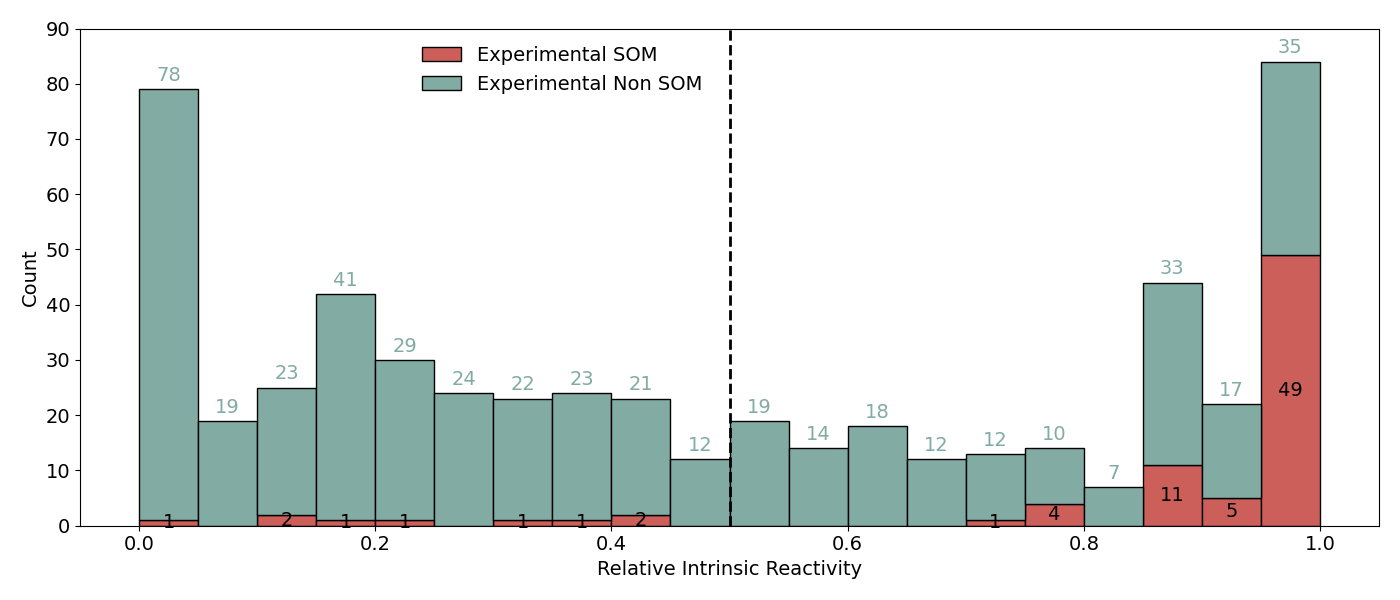
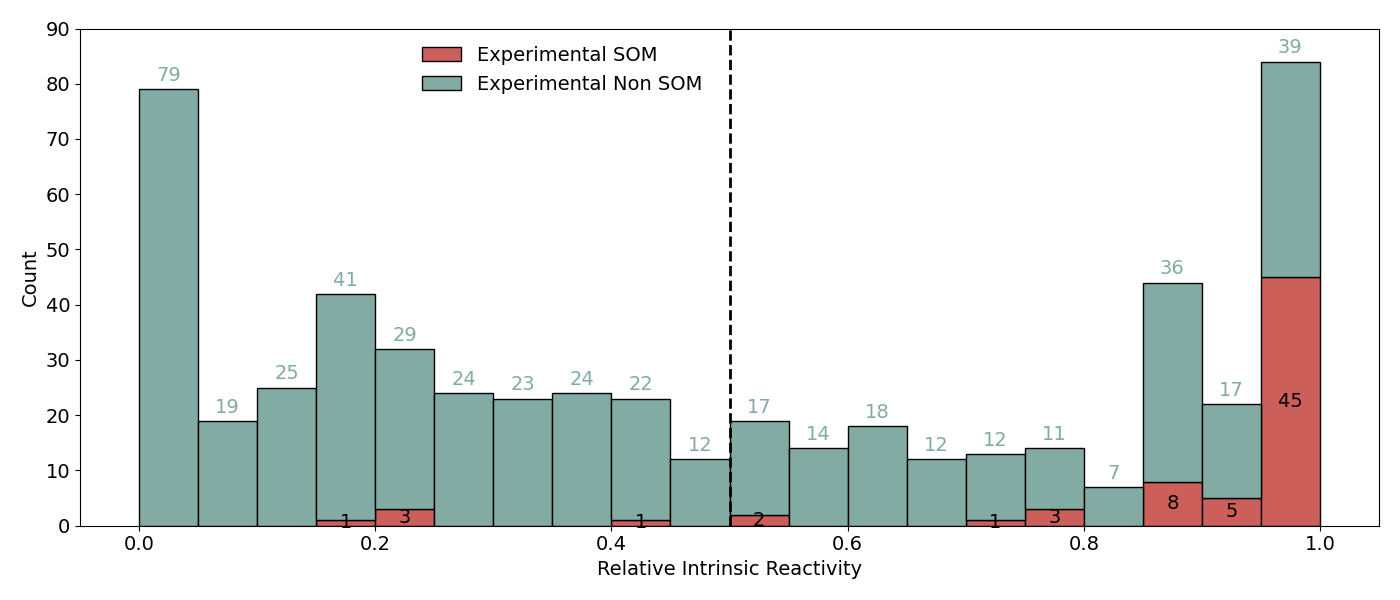
checkpoint

diff --git a/04_statistics/gen_0/venn_plot_som.py b/04_statistics/gen_0/venn_plot_som.py
@@ -5,10 +5,10 @@ import pandas as pd
 
 
 # Load the data
-all_data = pd.read_csv("../data/dataset/dataset_merck_all.csv")
-bde_som = pd.read_csv("../data/bins/bde_som/low_bde_som.csv")
-relative_ir_som = pd.read_csv("../data/bins/relative_ir_som/high_relative_ir_som.csv")
-sasa_som = pd.read_csv("../data/bins/sasa_som/high_sasa_maestro_som.csv")
+all_data = pd.read_csv("../../data/dataset/dataset_merck_bde.csv")
+bde_som = pd.read_csv("../../data/bins/bde_som/low_bde_som.csv")
+relative_ir_som = pd.read_csv("../../data/bins/relative_ir_som/high_relative_ir_som.csv")
+sasa_som = pd.read_csv("../../data/bins/sasa_som/high_sasa_maestro_som.csv")
 
 print(len(bde_som))
 print(len(relative_ir_som))
@@ -23,7 +23,7 @@ v = venn3(
         set(relative_ir_som["zaretzki_atomic_index"]),
         set(sasa_som["zaretzki_atomic_index"]),
     ],
-    ["Low BDE", "High Relative IR", "High SASA"],
+    ["Low BDE\n(<94 kcal/mol)", "High Relative IR\n(>0.5)", "High SASA (> Å2)"],
     layout_algorithm=matplotlib_venn.layout.venn3.DefaultLayoutAlgorithm(
         fixed_subset_sizes=(1, 1, 1, 1, 1, 1, 1)
     ),

diff --git a/04_statistics/gen_0/01_bde_distribution.py b/04_statistics/gen_0/01_bde_distribution.py
@@ -3,7 +3,7 @@ import pandas as pd
 
 
 # Load the dataset
-dataset = pd.read_csv("../data/dataset/dataset_merck_all.csv")
+dataset = pd.read_csv("../../data/dataset/dataset_merck_bde.csv")
 
 dataset = dataset[dataset["bde"].notna()]
 
@@ -151,5 +151,5 @@ for i in range(1, 15):
 # Save the dataframe to a csv file
 df_low_bde_som = df_low_bde_som.drop_duplicates(subset="zaretzki_atomic_index")
 df_low_bde_non_som = df_low_bde_non_som.drop_duplicates(subset="zaretzki_atomic_index")
-df_low_bde_som.to_csv("../data/bins/bde_som/low_bde_som.csv", index=False)
-df_low_bde_non_som.to_csv("../data/bins/bde_som/low_bde_non_som.csv", index=False)
+df_low_bde_som.to_csv("../../data/bins/bde_som/low_bde_som.csv", index=False)
+df_low_bde_non_som.to_csv("../../data/bins/bde_som/low_bde_non_som.csv", index=False)

diff --git a/04_statistics/gen_0/03_sasa_distribution.py b/04_statistics/gen_0/03_sasa_distribution.py
@@ -3,7 +3,7 @@ import pandas as pd
 
 
 # Load the dataset
-dataset = pd.read_csv("../data/dataset/dataset_merck_all.csv")
+dataset = pd.read_csv("../../data/dataset/dataset_merck_bde.csv")
 
 dataset = dataset[dataset["bde"].notna()]
 
@@ -163,10 +163,10 @@ df_high_sasa_maestro_non_som = df_high_sasa_maestro_non_som.drop_duplicates(
     subset="zaretzki_atomic_index"
 )
 df_high_sasa_maestro_som.to_csv(
-    "../data/bins/sasa_som/high_sasa_maestro_som.csv", index=False
+    "../../data/bins/sasa_som/high_sasa_maestro_som.csv", index=False
 )
 df_high_sasa_maestro_non_som.to_csv(
-    "../data/bins/sasa_som/high_sasa_maestro_non_som.csv", index=False
+    "../../data/bins/sasa_som/high_sasa_maestro_non_som.csv", index=False
 )
 
 # Get the average sasa

diff --git a/04_statistics/gen_0/02_relative_ir_distribution.py b/04_statistics/gen_0/02_relative_ir_distribution.py
@@ -3,7 +3,7 @@ import pandas as pd
 
 
 # Load the dataset
-dataset = pd.read_csv("../data/dataset/dataset_merck_all.csv")
+dataset = pd.read_csv("../../data/dataset/dataset_merck_bde.csv")
 
 dataset = dataset[dataset["bde"].notna()]
 
@@ -161,8 +161,9 @@ df_high_relative_ir_non_som = df_high_relative_ir_non_som.drop_duplicates(
     subset="zaretzki_atomic_index"
 )
 df_high_relative_ir_som.to_csv(
-    "../data/bins/relative_ir_som/high_relative_ir_som.csv", index=False
+    "../../data/bins/relative_ir_som/high_relative_ir_som.csv", index=False
 )
 df_high_relative_ir_non_som.to_csv(
-    "../data/bins/relative_ir_som/high_relative_ir_non_som.csv", index=False
+    "../../data/bins/relative_ir_som/high_relative_ir_non_som.csv", index=False
 )
+
